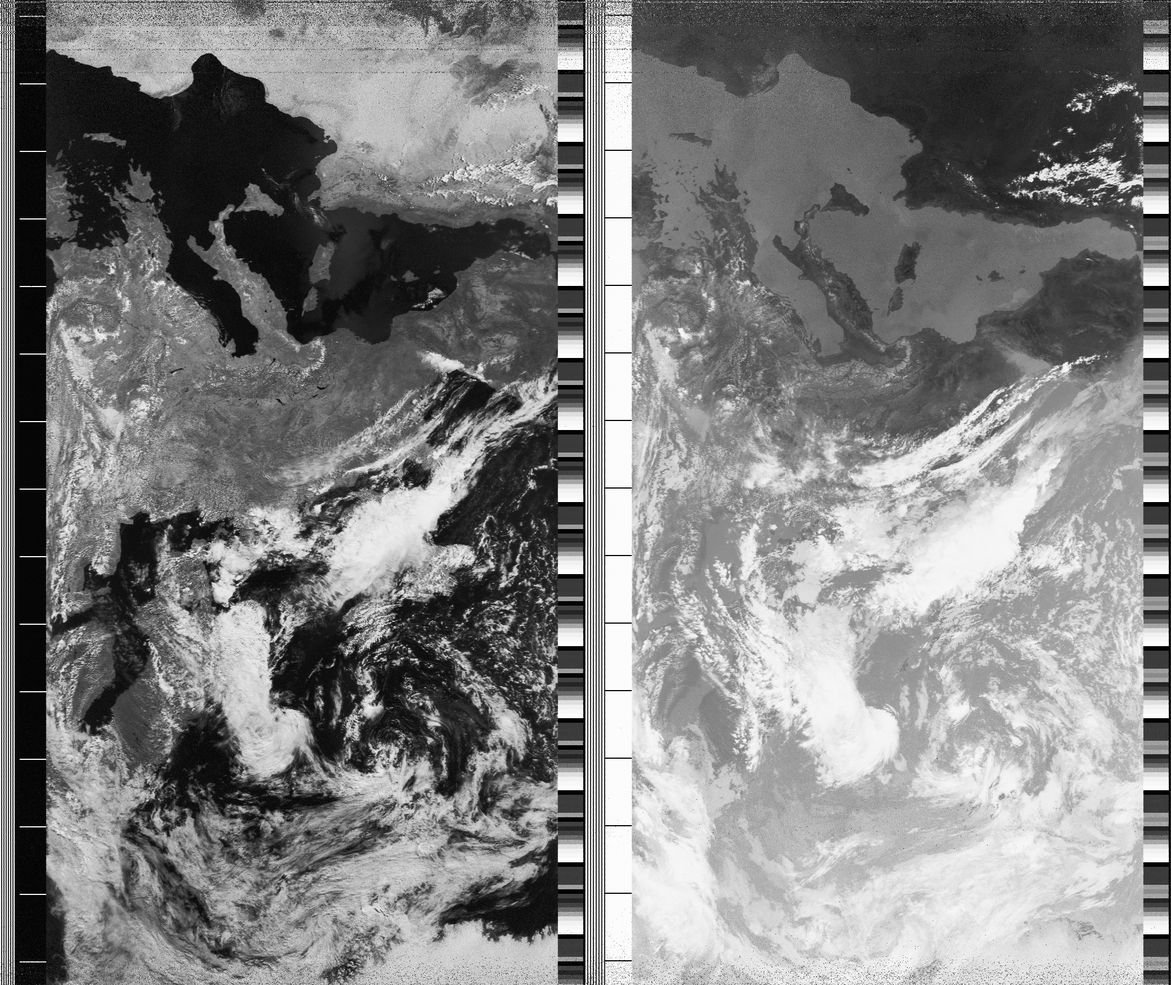
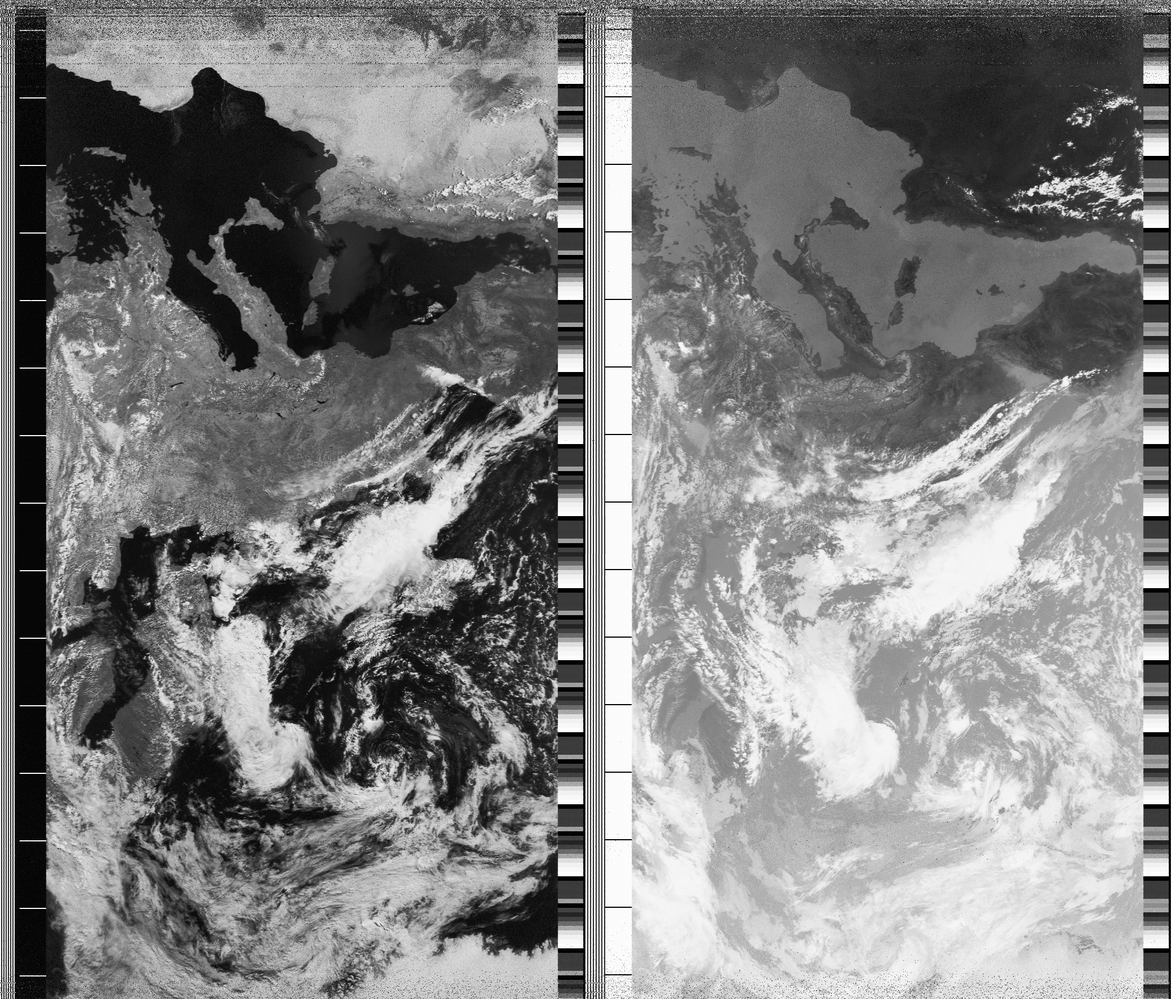
Final commit

diff --git a/src/main.py b/src/main.py
@@ -17,7 +17,7 @@ import librosa
 
 
 SYNC_AB_MAX_DRIFT_PER_FRAME = 5
-START_FRAME_CC_THRESHOLD = 0.3
+START_FRAME_CC_THRESHOLD = 0.25
 CC_THRESHOLD = 0.3
 CC_THRESHOLD_NEW = 0.1
 
@@ -118,8 +118,7 @@ def noaa_decoder(path):
 
     pixels_per_line = 2080
     if y.dtype == np.int16:
-        y = y / (2 ** 15 - 1)
-        assert np.abs(y).max() < 1
+        y = y / (2 ** 15)
 
     if len(y.shape) == 2:
         y = y[:, 0]
@@ -159,6 +158,7 @@ def noaa_decoder(path):
 
     if success is False:
         print("Could not find a frame. Recording may be too noisy, quitting...")
+        return None
 
     print("Done")
 
@@ -169,7 +169,7 @@ def noaa_decoder(path):
     # quit()
 
     image = []
-    while y_envelope.shape[-1] - current_index > 2 * samples_per_line:
+    while y_envelope.shape[-1] - current_index > 3 * samples_per_line//2:
         sync_start_index = max([current_index - samples_backoff, 0])
         tau, success = find_sync_time(y_envelope[sync_start_index:sync_start_index + 3 * samples_per_line//2], fs, samples_per_line)
         if success:
@@ -184,7 +184,9 @@ def noaa_decoder(path):
         y_line = y_line.reshape(pixels_per_line, samples_per_pixel)
         y_line = np.mean(y_line, axis=1)
         image.append(y_line)
-
+    if len(image) == 0:
+        return None
+    
     image = np.array(image)
     image = utils.quantize_8bit(image)
     equ = cv2.equalizeHist(image)
